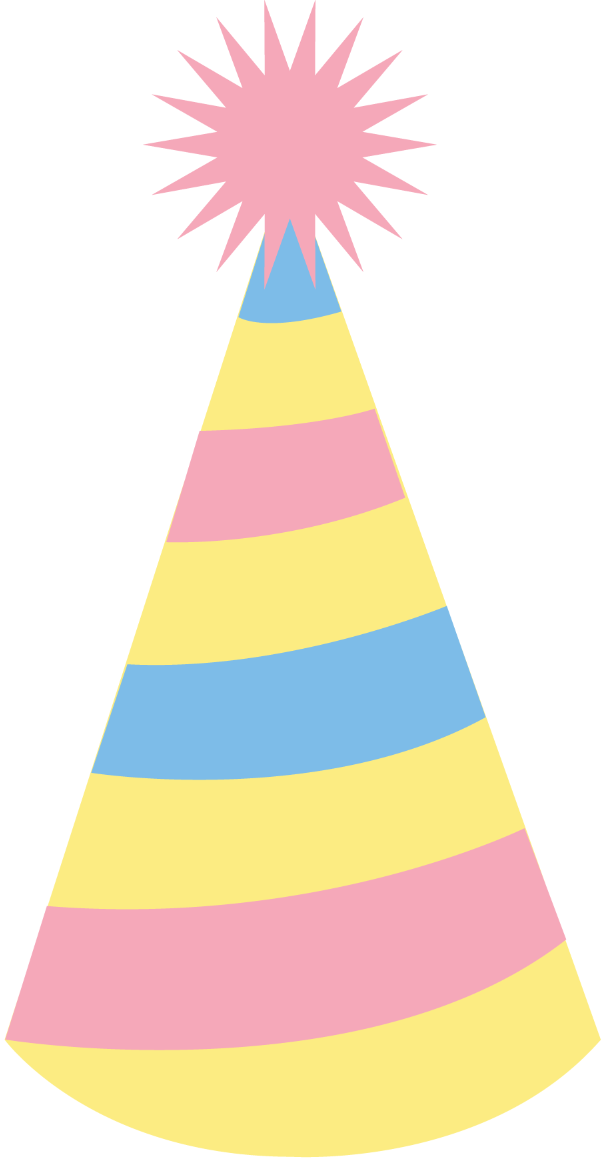
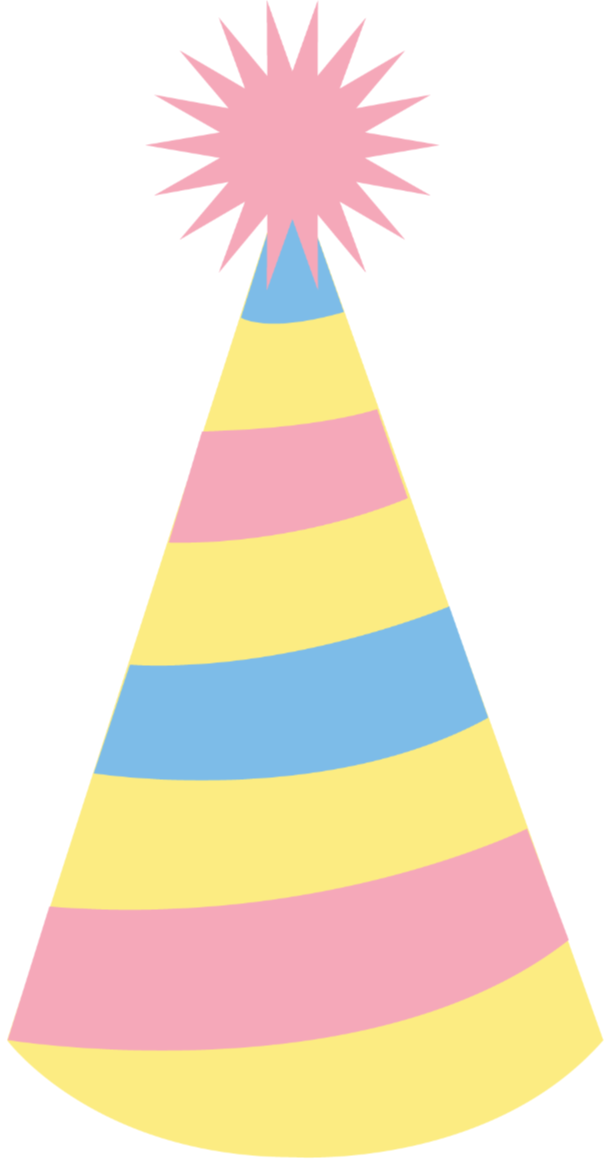
fix: image size

diff --git a/src/app.css b/src/app.css
@@ -181,13 +181,13 @@ label {
   position: absolute;
   bottom: 60%;
   left: 53%;
-  width: 88px;
-  height: 94px;
+  width: 61px;
+  height: 116px;
   justify-self: center;
   color: white;
   rotate: 45deg;
   font-size: 1.5rem;
-  padding: 3px 12px;
+  margin: 3px 12px;
   border-radius: 8px;
   font-weight: bold;
   line-height: 1;
@@ -204,7 +204,6 @@ label {
   position: absolute;
   top: 0;
   justify-self: center;
-  ;
   border-radius: 50%;
   z-index: 2;
   background-color: rgba(0, 0, 0, 0);

diff --git a/src/app.tsx b/src/app.tsx
@@ -60,7 +60,7 @@ export function App() {
               height={150}
             />
             {isBirthDay ? <>
-              <img src="/birthday-hat.png" class="birthday-hat" alt="Birthday Hat" width={88} height={94} />
+              <img src="/birthday-hat.png" class="birthday-hat" alt="Birthday Hat" width={61} height={116} />
             </> : null}
             {isLive ? (
               <>
